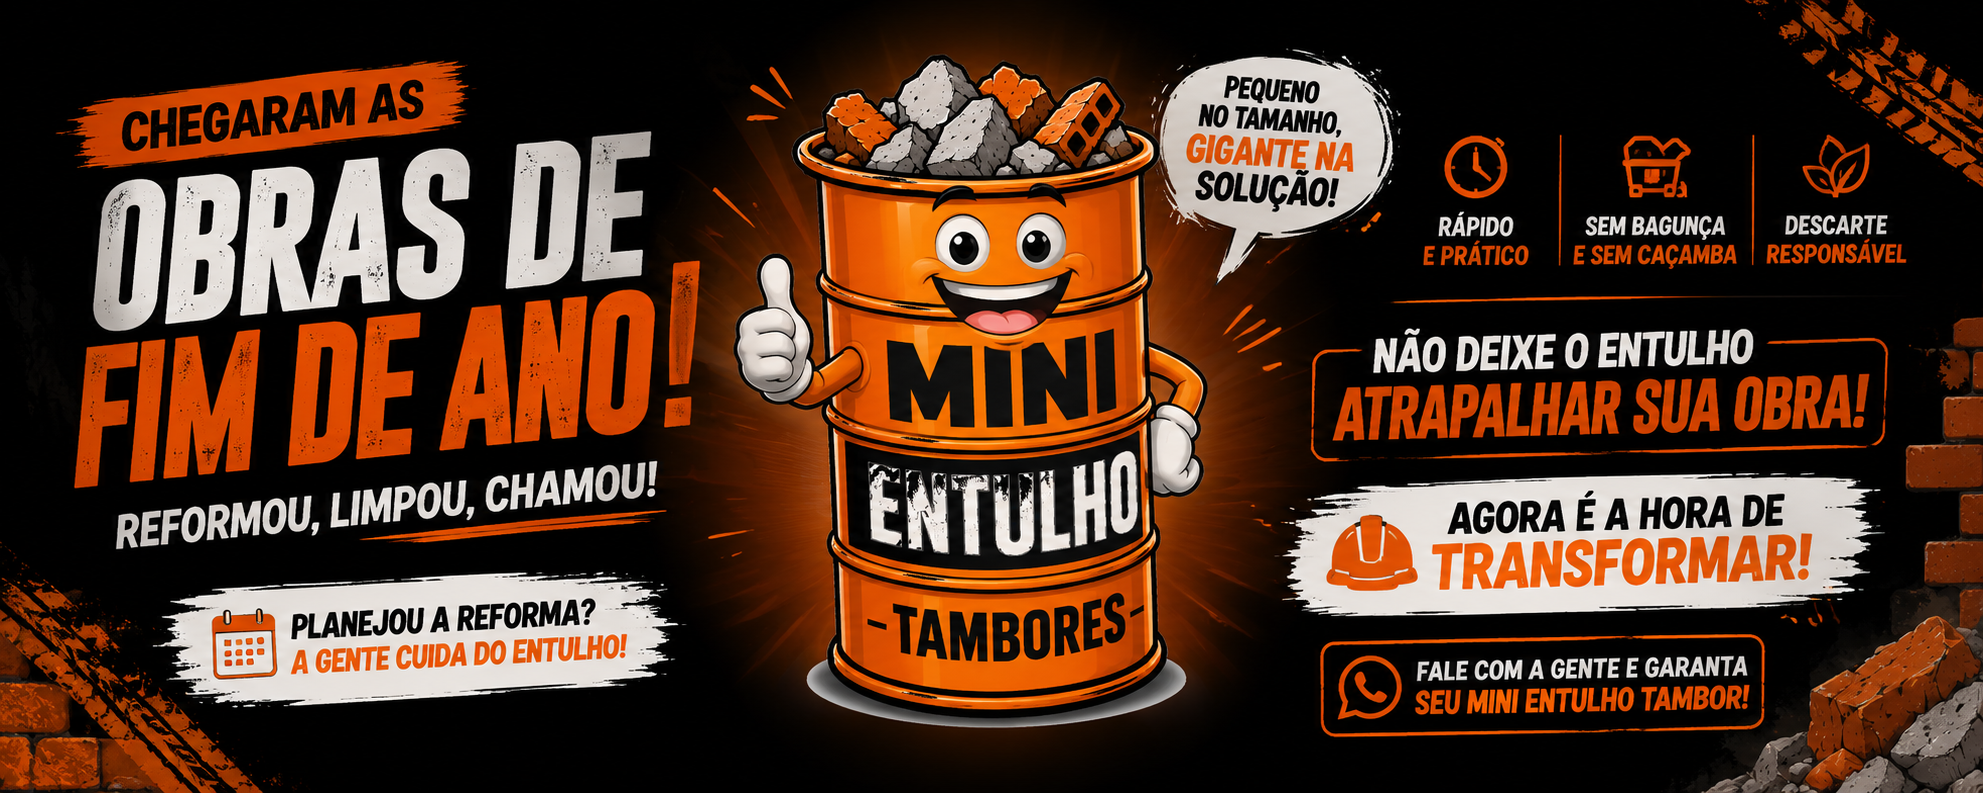
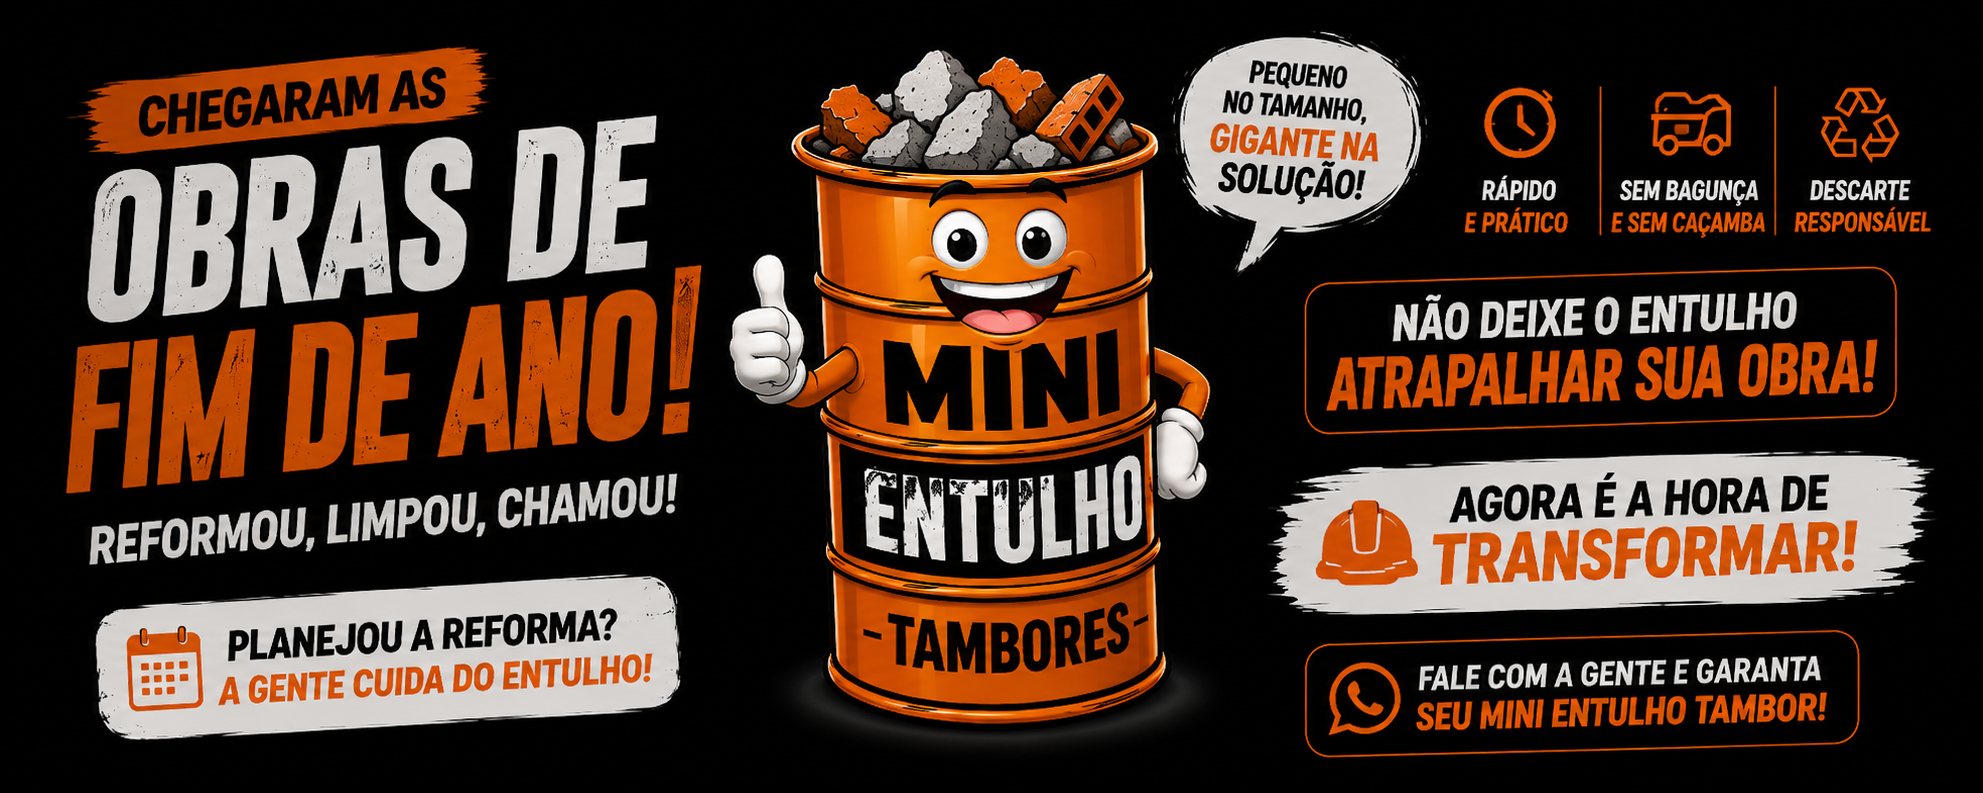
Atualiza videos e imagens do site

diff --git a/index.html b/index.html
@@ -126,7 +126,7 @@
           <article>
             <div class="video-frame">
               <iframe
-                src="https://www.youtube.com/embed/dQw4w9WgXcQ"
+                src="https://www.youtube.com/embed/J4Veok2V7TI"
                 title="Video 1 - Mini Entulho Tambores"
                 allow="accelerometer; autoplay; clipboard-write; encrypted-media; gyroscope; picture-in-picture; web-share"
                 allowfullscreen
@@ -138,7 +138,7 @@
           <article>
             <div class="video-frame">
               <iframe
-                src="https://www.youtube.com/embed/dQw4w9WgXcQ"
+                src="https://www.youtube.com/embed/J4Veok2V7TI"
                 title="Video 2 - Mini Entulho Tambores"
                 allow="accelerometer; autoplay; clipboard-write; encrypted-media; gyroscope; picture-in-picture; web-share"
                 allowfullscreen

diff --git a/sw.js b/sw.js
@@ -1,4 +1,4 @@
-const CACHE_NAME = "mini-entulho-tambores-v25";
+const CACHE_NAME = "mini-entulho-tambores-v26";
 const ASSETS = [
   "./",
   "index.html",